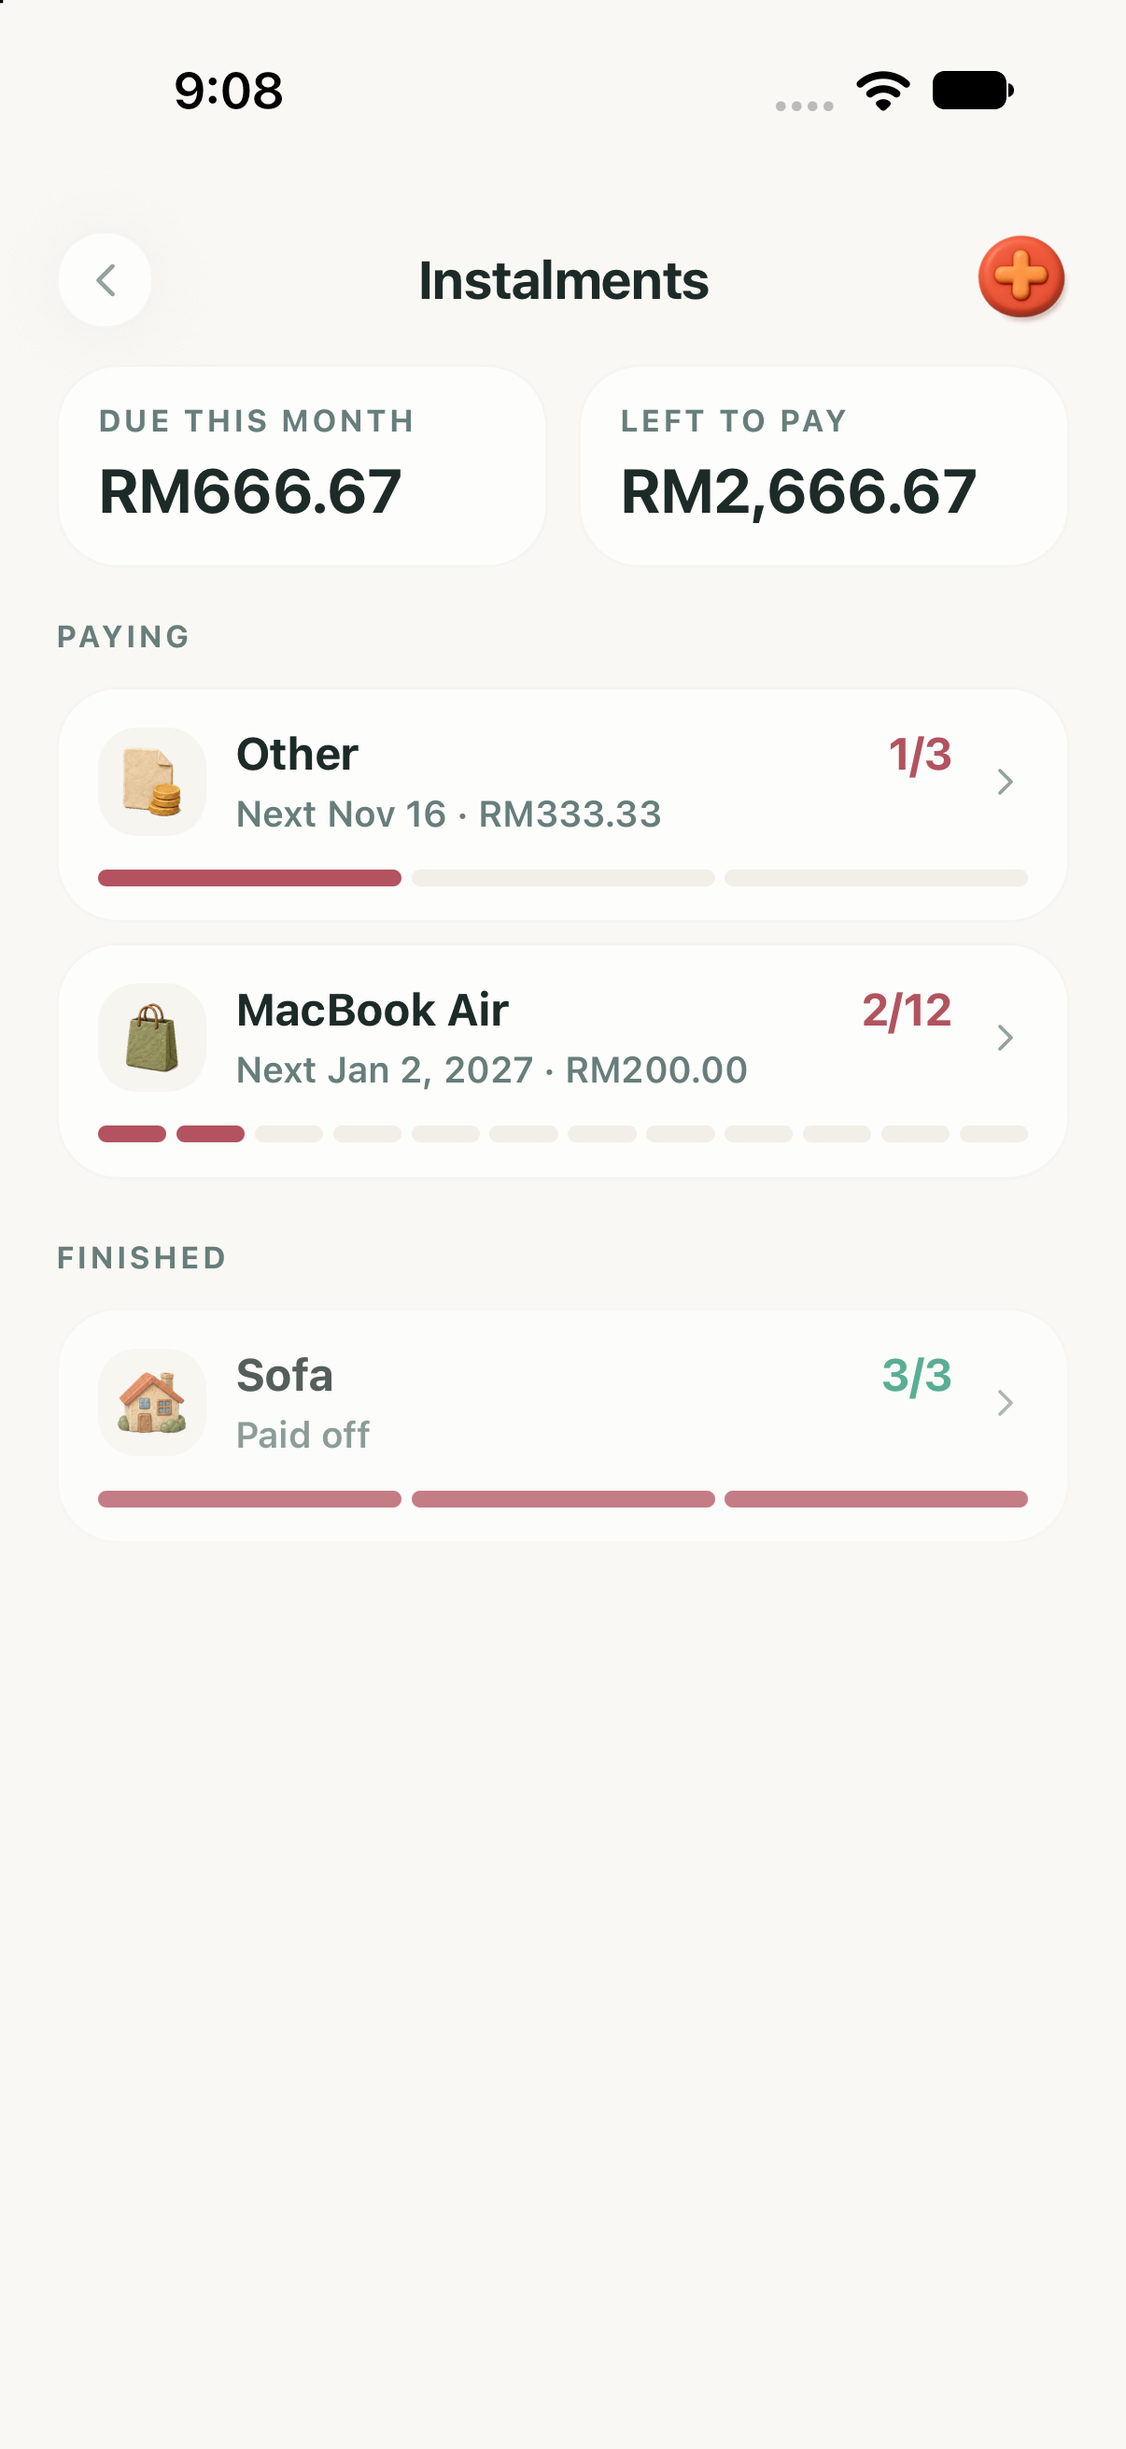
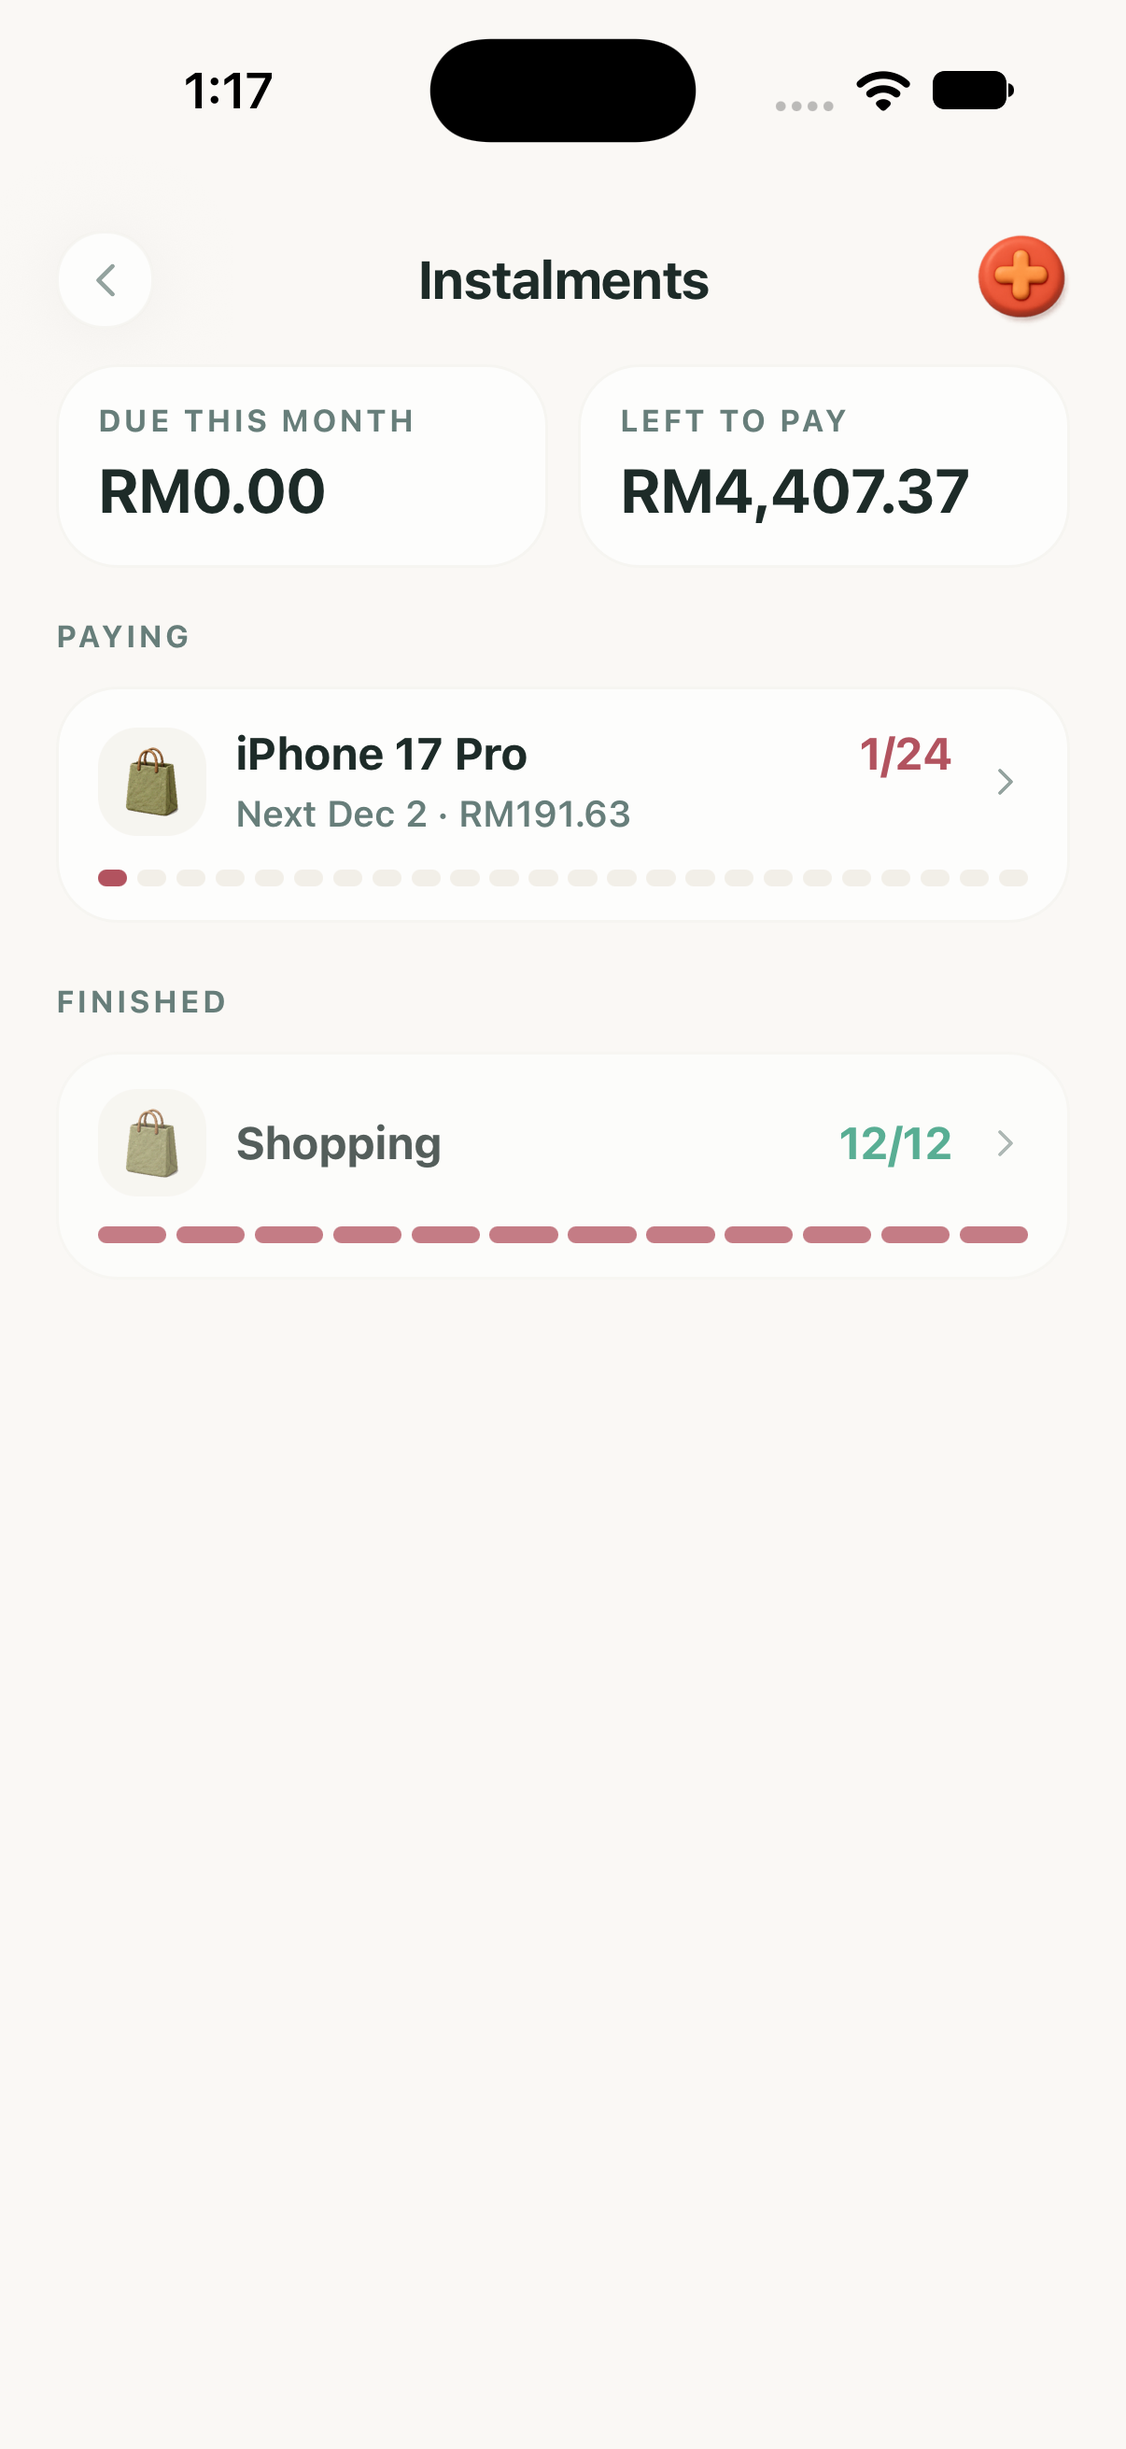
Add instalments to the Pro table, show 60k+ users, drop "All paid" on cards
- The paywall's Pro vs Free table lists Instalment plans (2 free, unlimited
  with Pro).
- The paywall's user-choice count reads 60k+ in every locale.
- A fully paid plan's card in the list no longer says "All paid".
- Edit plan treats a cleared or zero payment amount as no change.

diff --git a/apps/mobile/lib/i18n/locales/hi.ts b/apps/mobile/lib/i18n/locales/hi.ts
@@ -1743,7 +1743,6 @@ const hi = {
       'कुछ ऐसा खरीदा है जिसे किस्तों में चुका रहे हैं? उसे खर्च के रूप में जोड़ें और किस्तें पर टैप करके उसे भुगतानों में बाँटें।',
     empty_action: 'प्लान जोड़ें',
     next_payment_short: 'अगली {{date}} · {{amount}}',
-    status_complete: 'सब चुकता',
     status_paid: 'चुकाई गई',
     status_upcoming: 'आगामी',
     status_skipped: 'छोड़ी गई',
@@ -2196,6 +2195,7 @@ const hi = {
     accounts_label: 'खाते',
     categories_label: 'श्रेणियां',
     recurring_label: 'आवर्ती',
+    instalments_label: 'किस्त योजनाएँ',
     hourly_income_label: 'प्रति घंटा आय',
     trends_label: 'दीर्घकालिक ट्रेंड',
     voice_label: 'वॉइस एंट्री',
@@ -2218,7 +2218,7 @@ const hi = {
     hero_title: 'अपने पैसे और अपने समय पर नियंत्रण पाएं',
     social_rating_value: '4.9',
     social_rating_label: 'App Store रेटिंग',
-    social_downloads_value: '40k+',
+    social_downloads_value: '60k+',
     social_downloads_label: 'यूज़र्स की पसंद',
     trial_duration_day_one: '{{count}} दिन',
     trial_duration_day_other: '{{count}} दिन',

diff --git a/apps/mobile/lib/i18n/locales/th.ts b/apps/mobile/lib/i18n/locales/th.ts
@@ -1720,7 +1720,6 @@ const th = {
     empty_message: 'ซื้อของแบบผ่อนจ่ายใช่ไหม? เพิ่มเป็นรายจ่ายแล้วแตะ ผ่อนชำระ เพื่อแบ่งเป็นงวด',
     empty_action: 'เพิ่มแผน',
     next_payment_short: 'งวดถัดไป {{date}} · {{amount}}',
-    status_complete: 'จ่ายครบแล้ว',
     status_paid: 'จ่ายแล้ว',
     status_upcoming: 'กำลังจะถึง',
     status_skipped: 'ข้ามแล้ว',
@@ -2171,6 +2170,7 @@ const th = {
     accounts_label: 'บัญชี',
     categories_label: 'หมวดหมู่',
     recurring_label: 'รายการซ้ำ',
+    instalments_label: 'แผนผ่อนชำระ',
     hourly_income_label: 'รายรับต่อชั่วโมง',
     trends_label: 'แนวโน้มระยะยาว',
     voice_label: 'การป้อนด้วยเสียง',
@@ -2193,7 +2193,7 @@ const th = {
     hero_title: 'ควบคุมเงินและเวลาของคุณ',
     social_rating_value: '4.9',
     social_rating_label: 'คะแนนบน App Store',
-    social_downloads_value: '40k+',
+    social_downloads_value: '60k+',
     social_downloads_label: 'ตัวเลือกของผู้ใช้',
     trial_duration_day_one: '{{count}} วัน',
     trial_duration_day_other: '{{count}} วัน',

diff --git a/apps/mobile/lib/i18n/locales/uk.ts b/apps/mobile/lib/i18n/locales/uk.ts
@@ -1749,7 +1749,6 @@ const uk = {
       'Купили щось у розстрочку? Додайте покупку як витрату й натисніть «Розстрочка», щоб розбити її на платежі.',
     empty_action: 'Додати розстрочку',
     next_payment_short: 'Далі {{date}} · {{amount}}',
-    status_complete: 'Усе сплачено',
     status_paid: 'Сплачено',
     status_upcoming: 'Очікується',
     status_skipped: 'Пропущено',
@@ -2202,6 +2201,7 @@ const uk = {
     accounts_label: 'Рахунки',
     categories_label: 'Категорії',
     recurring_label: 'Регулярні',
+    instalments_label: 'Розстрочки',
     hourly_income_label: 'Погодинний дохід',
     trends_label: 'Довгострокові тренди',
     voice_label: 'Голосове введення',
@@ -2224,7 +2224,7 @@ const uk = {
     hero_title: 'Візьміть під контроль свої гроші та свій час',
     social_rating_value: '4.9',
     social_rating_label: 'Оцінка в App Store',
-    social_downloads_value: '40k+',
+    social_downloads_value: '60k+',
     social_downloads_label: 'Вибір користувачів',
     trial_duration_day_one: '{{count}} день',
     trial_duration_day_other: '{{count}} днів',

diff --git a/apps/mobile/lib/i18n/locales/ru.ts b/apps/mobile/lib/i18n/locales/ru.ts
@@ -1755,7 +1755,6 @@ const ru = {
       'Купили что-то в рассрочку? Добавьте покупку как расход и нажмите «Рассрочка», чтобы разбить её на платежи.',
     empty_action: 'Добавить рассрочку',
     next_payment_short: 'Далее {{date}} · {{amount}}',
-    status_complete: 'Всё оплачено',
     status_paid: 'Оплачено',
     status_upcoming: 'Предстоит',
     status_skipped: 'Пропущено',
@@ -2209,6 +2208,7 @@ const ru = {
     accounts_label: 'Счета',
     categories_label: 'Категории',
     recurring_label: 'Повторяющиеся',
+    instalments_label: 'Рассрочки',
     hourly_income_label: 'История ставки',
     trends_label: 'Долгосрочные тренды',
     voice_label: 'Голосовой ввод',
@@ -2231,7 +2231,7 @@ const ru = {
     hero_title: 'Возьмите под контроль свои деньги и своё время',
     social_rating_value: '4.9',
     social_rating_label: 'Оценка в App Store',
-    social_downloads_value: '40k+',
+    social_downloads_value: '60k+',
     social_downloads_label: 'Выбор пользователей',
     trial_duration_day_one: '{{count}} день',
     trial_duration_day_other: '{{count}} дней',

diff --git a/apps/mobile/features/instalments/components/InstalmentPlanCard.tsx b/apps/mobile/features/instalments/components/InstalmentPlanCard.tsx
@@ -68,11 +68,11 @@ export function InstalmentPlanCard({
   const parent = category?.parentId ? getCategoryById(category.parentId) : undefined;
   const money = (amount: number) => formatAmount(amount, settings, { currencyCode: rule.currency });
 
-  // "All paid" when every payment was made, paid off early included; a plan
-  // that ended with skipped (deleted) payments is just finished.
+  // Fully paid needs no words (the green 12/12 and full bar say it); a plan
+  // that ended with skipped (deleted) payments says it finished.
   const status = plan.complete
     ? plan.paidCount === plan.entries.length
-      ? I18n.t('instalments.status_complete')
+      ? null
       : I18n.t('instalments.section_finished')
     : plan.next
       ? I18n.t('instalments.next_payment_short', {
@@ -106,9 +106,11 @@ export function InstalmentPlanCard({
               {I18n.t('instalments.paid_of', { paid: plan.paidCount, count: plan.entries.length })}
             </Text>
           </View>
-          <Text variant="caption" tone="muted" numberOfLines={1}>
-            {status}
-          </Text>
+          {status ? (
+            <Text variant="caption" tone="muted" numberOfLines={1}>
+              {status}
+            </Text>
+          ) : null}
         </View>
         <ChevronRight size={16} color={themeColors.textMuted} />
       </View>

diff --git a/apps/mobile/lib/i18n/locales/vi.ts b/apps/mobile/lib/i18n/locales/vi.ts
@@ -1736,7 +1736,6 @@ const vi = {
       'Bạn mua món gì đó trả góp? Hãy thêm nó như một khoản chi rồi chạm Trả góp để chia thành các kỳ.',
     empty_action: 'Thêm khoản trả góp',
     next_payment_short: 'Kỳ tới {{date}} · {{amount}}',
-    status_complete: 'Đã trả hết',
     status_paid: 'Đã trả',
     status_upcoming: 'Sắp tới',
     status_skipped: 'Đã bỏ qua',
@@ -2190,6 +2189,7 @@ const vi = {
     accounts_label: 'Tài khoản',
     categories_label: 'Danh mục',
     recurring_label: 'Định kỳ',
+    instalments_label: 'Kế hoạch trả góp',
     hourly_income_label: 'Lương theo giờ',
     trends_label: 'Xu hướng dài hạn',
     voice_label: 'Nhập bằng giọng nói',
@@ -2212,7 +2212,7 @@ const vi = {
     hero_title: 'Làm chủ tiền bạc và thời gian của bạn',
     social_rating_value: '4.9',
     social_rating_label: 'Đánh giá trên App Store',
-    social_downloads_value: '40k+',
+    social_downloads_value: '60k+',
     social_downloads_label: 'Lựa chọn của người dùng',
     trial_duration_day_one: '{{count}} ngày',
     trial_duration_day_other: '{{count}} ngày',

diff --git a/apps/mobile/lib/i18n/locales/fr.ts b/apps/mobile/lib/i18n/locales/fr.ts
@@ -1766,7 +1766,6 @@ const fr = {
       'Vous avez acheté quelque chose que vous payez en plusieurs fois ? Ajoutez-le comme dépense et touchez En plusieurs fois pour le répartir en échéances.',
     empty_action: 'Ajouter un paiement',
     next_payment_short: 'Prochaine : {{date}} · {{amount}}',
-    status_complete: 'Tout payé',
     status_paid: 'Payée',
     status_upcoming: 'À venir',
     status_skipped: 'Ignorée',
@@ -2225,6 +2224,7 @@ const fr = {
     accounts_label: 'Comptes',
     categories_label: 'Catégories',
     recurring_label: 'Récurrents',
+    instalments_label: 'Paiements échelonnés',
     hourly_income_label: 'Revenu horaire',
     trends_label: 'Tendances long terme',
     voice_label: 'Saisies vocales',
@@ -2247,7 +2247,7 @@ const fr = {
     hero_title: 'Reprenez le contrôle de votre argent et de votre temps',
     social_rating_value: '4.9',
     social_rating_label: "Note sur l'App Store",
-    social_downloads_value: '40k+',
+    social_downloads_value: '60k+',
     social_downloads_label: 'Choix des utilisateurs',
     trial_duration_day_one: '{{count}} jour',
     trial_duration_day_other: '{{count}} jours',

diff --git a/apps/mobile/lib/i18n/locales/ja.ts b/apps/mobile/lib/i18n/locales/ja.ts
@@ -1741,7 +1741,6 @@ const ja = {
       '分けて支払う買い物はありますか？支出として入力し、「分割払い」をタップすると支払いを分割できます。',
     empty_action: 'プランを追加',
     next_payment_short: '次回 {{date}} · {{amount}}',
-    status_complete: '支払い完了',
     status_paid: '支払済み',
     status_upcoming: '予定',
     status_skipped: 'スキップ',
@@ -2192,6 +2191,7 @@ const ja = {
     accounts_label: '口座',
     categories_label: 'カテゴリ',
     recurring_label: '定期取引',
+    instalments_label: '分割払い',
     hourly_income_label: '時給記録',
     trends_label: '長期トレンド',
     voice_label: '音声入力',
@@ -2214,7 +2214,7 @@ const ja = {
     hero_title: 'お金と時間を自分の手に取り戻そう',
     social_rating_value: '4.9',
     social_rating_label: 'App Storeの評価',
-    social_downloads_value: '40k+',
+    social_downloads_value: '60k+',
     social_downloads_label: 'ユーザーの選択',
     trial_duration_day_one: '{{count}}日間',
     trial_duration_day_other: '{{count}}日間',

diff --git a/apps/mobile/lib/i18n/locales/de.ts b/apps/mobile/lib/i18n/locales/de.ts
@@ -1769,7 +1769,6 @@ const de = {
       'Etwas gekauft, das du in Raten abbezahlst? Trag es als Ausgabe ein und tippe auf Raten, um es in Zahlungen aufzuteilen.',
     empty_action: 'Ratenzahlung hinzufügen',
     next_payment_short: 'Nächste: {{date}} · {{amount}}',
-    status_complete: 'Alles bezahlt',
     status_paid: 'Bezahlt',
     status_upcoming: 'Anstehend',
     status_skipped: 'Übersprungen',
@@ -2229,6 +2228,7 @@ const de = {
     accounts_label: 'Konten',
     categories_label: 'Kategorien',
     recurring_label: 'Wiederkehrend',
+    instalments_label: 'Ratenpläne',
     hourly_income_label: 'Stundenwert-Verlauf',
     trends_label: 'Langfristige Trends',
     voice_label: 'Spracheingaben',
@@ -2251,7 +2251,7 @@ const de = {
     hero_title: 'Übernimm die Kontrolle über dein Geld und deine Zeit',
     social_rating_value: '4.9',
     social_rating_label: 'App-Store-Bewertung',
-    social_downloads_value: '40k+',
+    social_downloads_value: '60k+',
     social_downloads_label: 'Nutzerfavorit',
     trial_duration_day_one: '{{count}} Tag',
     trial_duration_day_other: '{{count}} Tage',

diff --git a/apps/mobile/lib/i18n/locales/nl.ts b/apps/mobile/lib/i18n/locales/nl.ts
@@ -1765,7 +1765,6 @@ const nl = {
       'Iets gekocht dat je in delen afbetaalt? Voeg het toe als uitgave en tik op Termijnen om het in betalingen te verdelen.',
     empty_action: 'Termijnbetaling toevoegen',
     next_payment_short: 'Volgende: {{date}} · {{amount}}',
-    status_complete: 'Alles betaald',
     status_paid: 'Betaald',
     status_upcoming: 'Gepland',
     status_skipped: 'Overgeslagen',
@@ -2224,6 +2223,7 @@ const nl = {
     accounts_label: 'Rekeningen',
     categories_label: 'Categorieën',
     recurring_label: 'Terugkerend',
+    instalments_label: 'Afbetalingsplannen',
     hourly_income_label: 'Uurloon-inkomsten',
     trends_label: 'Langetermijntrends',
     voice_label: 'Spraakinvoer',
@@ -2246,7 +2246,7 @@ const nl = {
     hero_title: 'Neem controle over je geld en je tijd',
     social_rating_value: '4.9',
     social_rating_label: 'App Store-beoordeling',
-    social_downloads_value: '40k+',
+    social_downloads_value: '60k+',
     social_downloads_label: 'Keuze van gebruikers',
     trial_duration_day_one: '{{count}} dag',
     trial_duration_day_other: '{{count}} dagen',

diff --git a/apps/mobile/lib/i18n/locales/sv.ts b/apps/mobile/lib/i18n/locales/sv.ts
@@ -1749,7 +1749,6 @@ const sv = {
       'Köpt något som du betalar av i delar? Lägg till det som en utgift och tryck på Delbetalning för att dela upp det i betalningar.',
     empty_action: 'Lägg till delbetalning',
     next_payment_short: 'Nästa {{date}} · {{amount}}',
-    status_complete: 'Allt betalt',
     status_paid: 'Betald',
     status_upcoming: 'Kommande',
     status_skipped: 'Hoppades över',
@@ -2205,6 +2204,7 @@ const sv = {
     accounts_label: 'Konton',
     categories_label: 'Kategorier',
     recurring_label: 'Återkommande',
+    instalments_label: 'Avbetalningsplaner',
     hourly_income_label: 'Timlön',
     trends_label: 'Långsiktiga trender',
     voice_label: 'Röstinmatningar',
@@ -2227,7 +2227,7 @@ const sv = {
     hero_title: 'Ta kontroll över dina pengar och din tid',
     social_rating_value: '4.9',
     social_rating_label: 'App Store-betyg',
-    social_downloads_value: '40k+',
+    social_downloads_value: '60k+',
     social_downloads_label: 'Användarnas val',
     trial_duration_day_one: '{{count}} dag',
     trial_duration_day_other: '{{count}} dagar',

diff --git a/apps/mobile/lib/i18n/locales/fil.ts b/apps/mobile/lib/i18n/locales/fil.ts
@@ -1772,7 +1772,6 @@ const fil = {
       'May binili kang binabayaran nang hulugan? Idagdag ito bilang gastos at i-tap ang Hulugan para hatiin ito sa mga hulog.',
     empty_action: 'Magdagdag ng hulugan',
     next_payment_short: 'Susunod {{date}} · {{amount}}',
-    status_complete: 'Bayad lahat',
     status_paid: 'Bayad',
     status_upcoming: 'Paparating',
     status_skipped: 'Nilaktawan',
@@ -2230,6 +2229,7 @@ const fil = {
     accounts_label: 'Mga Account',
     categories_label: 'Mga Kategorya',
     recurring_label: 'Recurring',
+    instalments_label: 'Hulugang plano',
     hourly_income_label: 'Hourly Income',
     trends_label: 'Pangmatagalang Trend',
     voice_label: 'Mga voice entry',
@@ -2252,7 +2252,7 @@ const fil = {
     hero_title: 'Kontrolin ang iyong pera at ang iyong oras',
     social_rating_value: '4.9',
     social_rating_label: 'Rating sa App Store',
-    social_downloads_value: '40k+',
+    social_downloads_value: '60k+',
     social_downloads_label: 'Pinili ng mga user',
     trial_duration_day_one: '{{count}} araw',
     trial_duration_day_other: '{{count}} araw',
